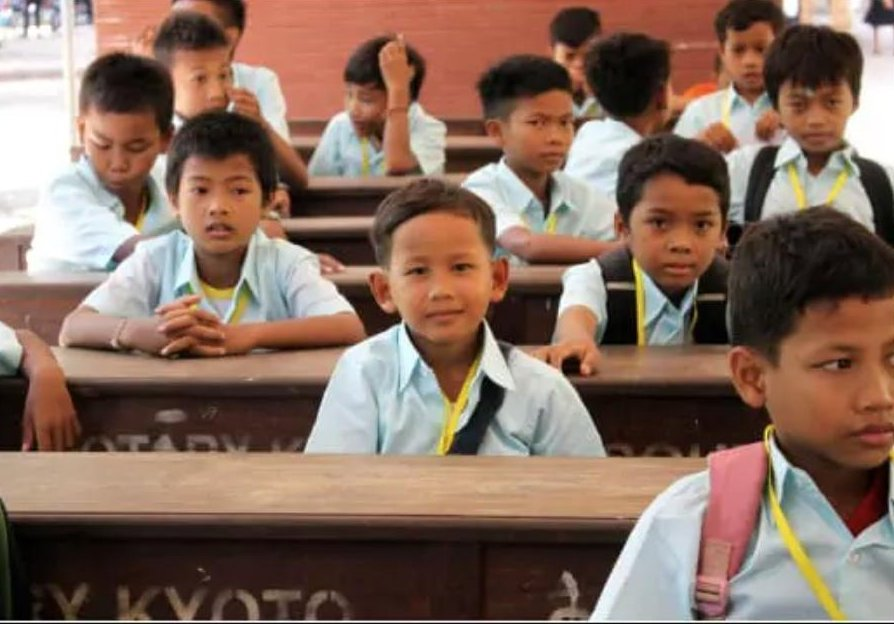
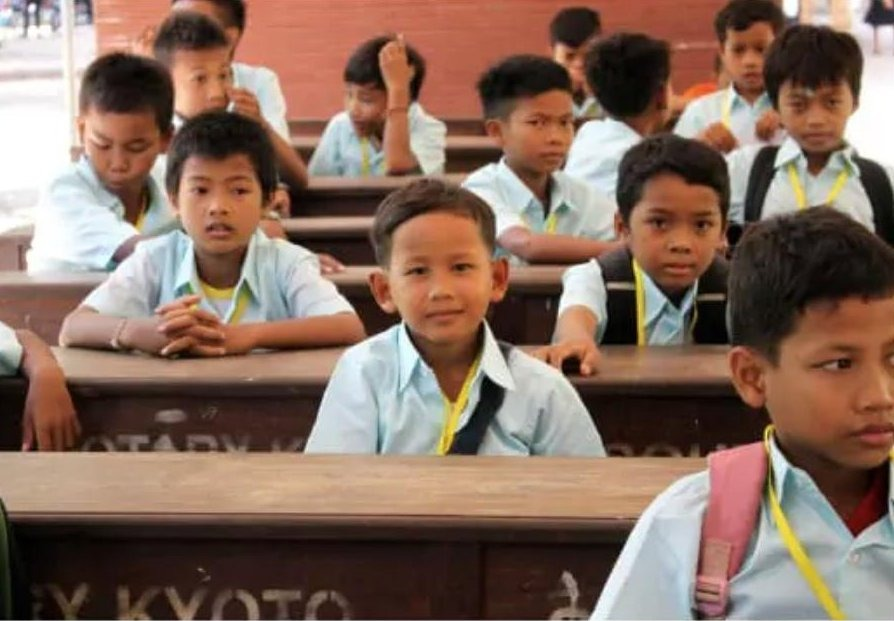
Projects page: fix card text colors on dark section; crop dark image edges

diff --git a/assets/style.css b/assets/style.css
@@ -712,3 +712,11 @@ p { margin: 0 0 1em; color: var(--color-text-muted); }
 .hero-slides img { position: absolute; inset: 0; opacity: 0; transform: scale(1.04); transition: opacity var(--hero-fade) ease-out, transform 4s ease-out; }
 .hero-slides img.is-active { opacity: 1; transform: scale(1); }
 @media (prefers-reduced-motion: reduce) { .hero-slides img { transition: none; transform: none; } }
+
+/* --- Thẻ (card) nằm trong mục nền tối (vd: trang Projects) ------------------
+   Mục .section--dark mặc định đổi h3/p sang màu sáng; thẻ card lại có nền
+   trắng nên phải đặt lại màu chữ tối để đọc được (giống thẻ ở trang chủ). */
+.section--dark .card h3 { color: var(--color-text); }
+.section--dark .card p { color: var(--color-text-muted); }
+.section--dark .card .card-link { color: var(--color-text); }
+.card-link:focus-visible { outline: none; }
